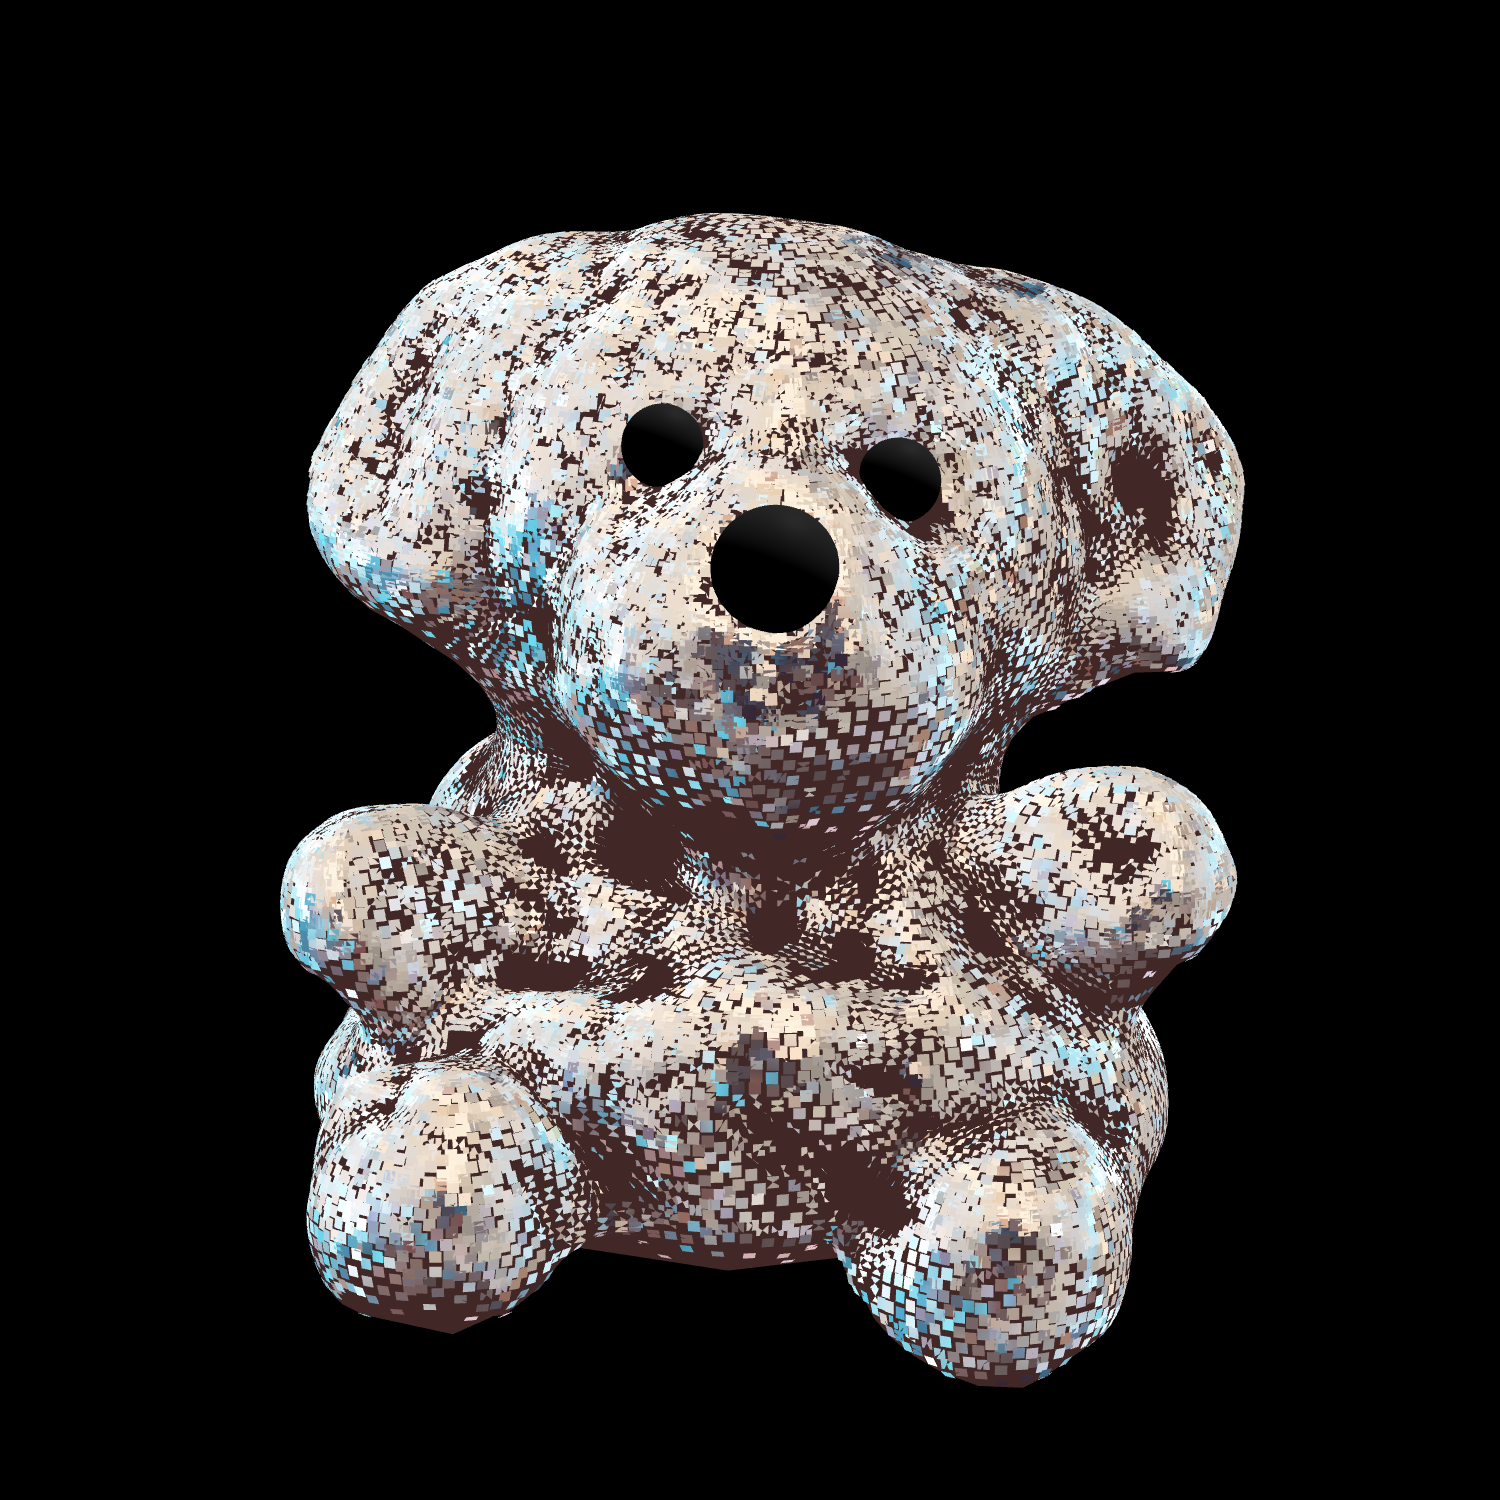
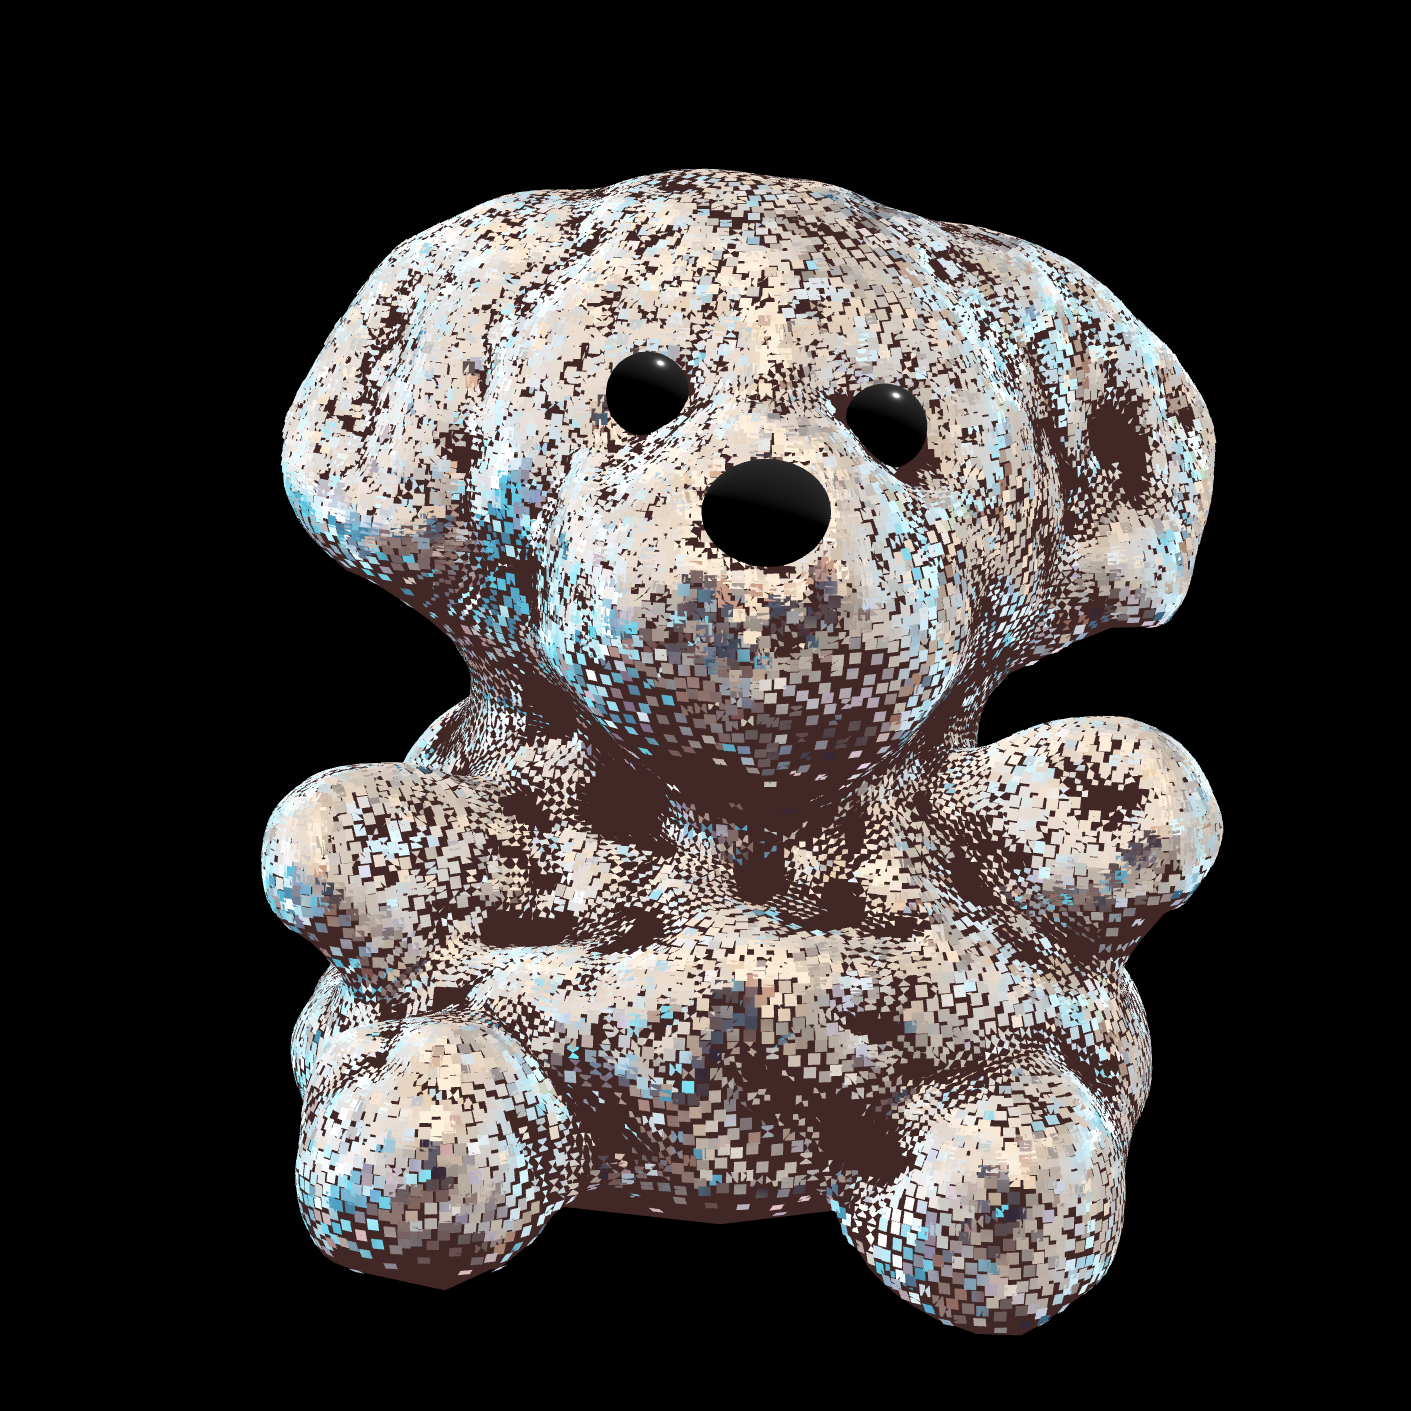
make eyes shiny

diff --git a/index_soy-sauce.js b/index_soy-sauce.js
@@ -90,14 +90,14 @@ function init() {
             innerGeometry,
             ballInnerMaterial
         );
-        const rightEye = new THREE.Mesh(new THREE.SphereGeometry(0.0042, 32, 32), new THREE.MeshPhongMaterial({ color: 0x666666, roughness: 0, metalness: 1.0 }));
+        const rightEye = new THREE.Mesh(new THREE.SphereGeometry(0.0042, 32, 32), new THREE.MeshStandardMaterial({ color: 0x777777, roughness: 0.2, metalness: 0.5 }));
         rightEye.position.set(-0.01, 0.087, 0.026);
         const leftEye = rightEye.clone();
         leftEye.position.x = 0.013;
         leftEye.position.y = 0.084;
         leftEye.position.z = 0.028;
-        const nose = new THREE.Mesh(new THREE.SphereGeometry(0.0045, 32, 32), new THREE.MeshPhongMaterial({ color: 0x666666, roughness: 1.0, metalness: 1.0 }));
-        nose.scale.set(1.4, 1.4, 1.4);
+        const nose = new THREE.Mesh(new THREE.SphereGeometry(0.0045, 32, 32), new THREE.MeshStandardMaterial({ color: 0x777777, roughness: 1.0, metalness: 1.0 }));
+        nose.scale.set(1.4, 1.15, 1.4);
         nose.position.y = 0.078;
         nose.position.z = 0.04;
         nose.position.x = 0.001;
@@ -119,19 +119,19 @@ function init() {
         scene.userData.element = element;
         container.appendChild(element);
 
-        const camera = new THREE.PerspectiveCamera(22, scene.userData.element.clientWidth / scene.userData.element.clientHeight, 1, 10);
+        const camera = new THREE.PerspectiveCamera(22, scene.userData.element.clientWidth / scene.userData.element.clientHeight, 0.5, 10);
         // camera.position.y = 3
         // camera.position.x = 0;
         // camera.position.z = 2;
         // camera.up.set(0 , 0, 0 );
-        let offset = new THREE.Vector3( 0, 0.1, -1.5 )
+        let offset = window.innerHeight < 768 ?  new THREE.Vector3( 0, 0.1, -2.0 ) : new THREE.Vector3( 0, 0.1, -1.5 )
 
         camera.position.addVectors( scene.position, offset )
 
         scene.userData.camera = camera;
 
         const controls = new OrbitControls(scene.userData.camera, scene.userData.element);
-        controls.minDistance = 1.25;
+        controls.minDistance = 1;
         controls.maxDistance = 10;
         controls.autoRotate = true;
         controls.autoRotateSpeed = 3;
@@ -147,10 +147,10 @@ function init() {
     
         // scene.add(hemiLight);
     
-        var dirLight = new THREE.DirectionalLight(0xffffff, 0.54);
+        var dirLight = new THREE.DirectionalLight(0xffffff, 1.0);
         dirLight.position.set(-5, 12, 5);
-        dirLight.castShadow = true;
-        dirLight.shadow.mapSize = new THREE.Vector2(5524, 5524);
+        // dirLight.castShadow = true;
+        // dirLight.shadow.mapSize = new THREE.Vector2(5524, 5524);
     
         scene.add(dirLight);
 

diff --git a/soy-sauce.html b/soy-sauce.html
@@ -34,7 +34,7 @@
           }
         }
       </script>
-    <script src="index_soy-sauce.js?v=1.1" type="module"></script>
+    <script src="index_soy-sauce.js?v=1.2" type="module"></script>
 </body>
 
 </html>
